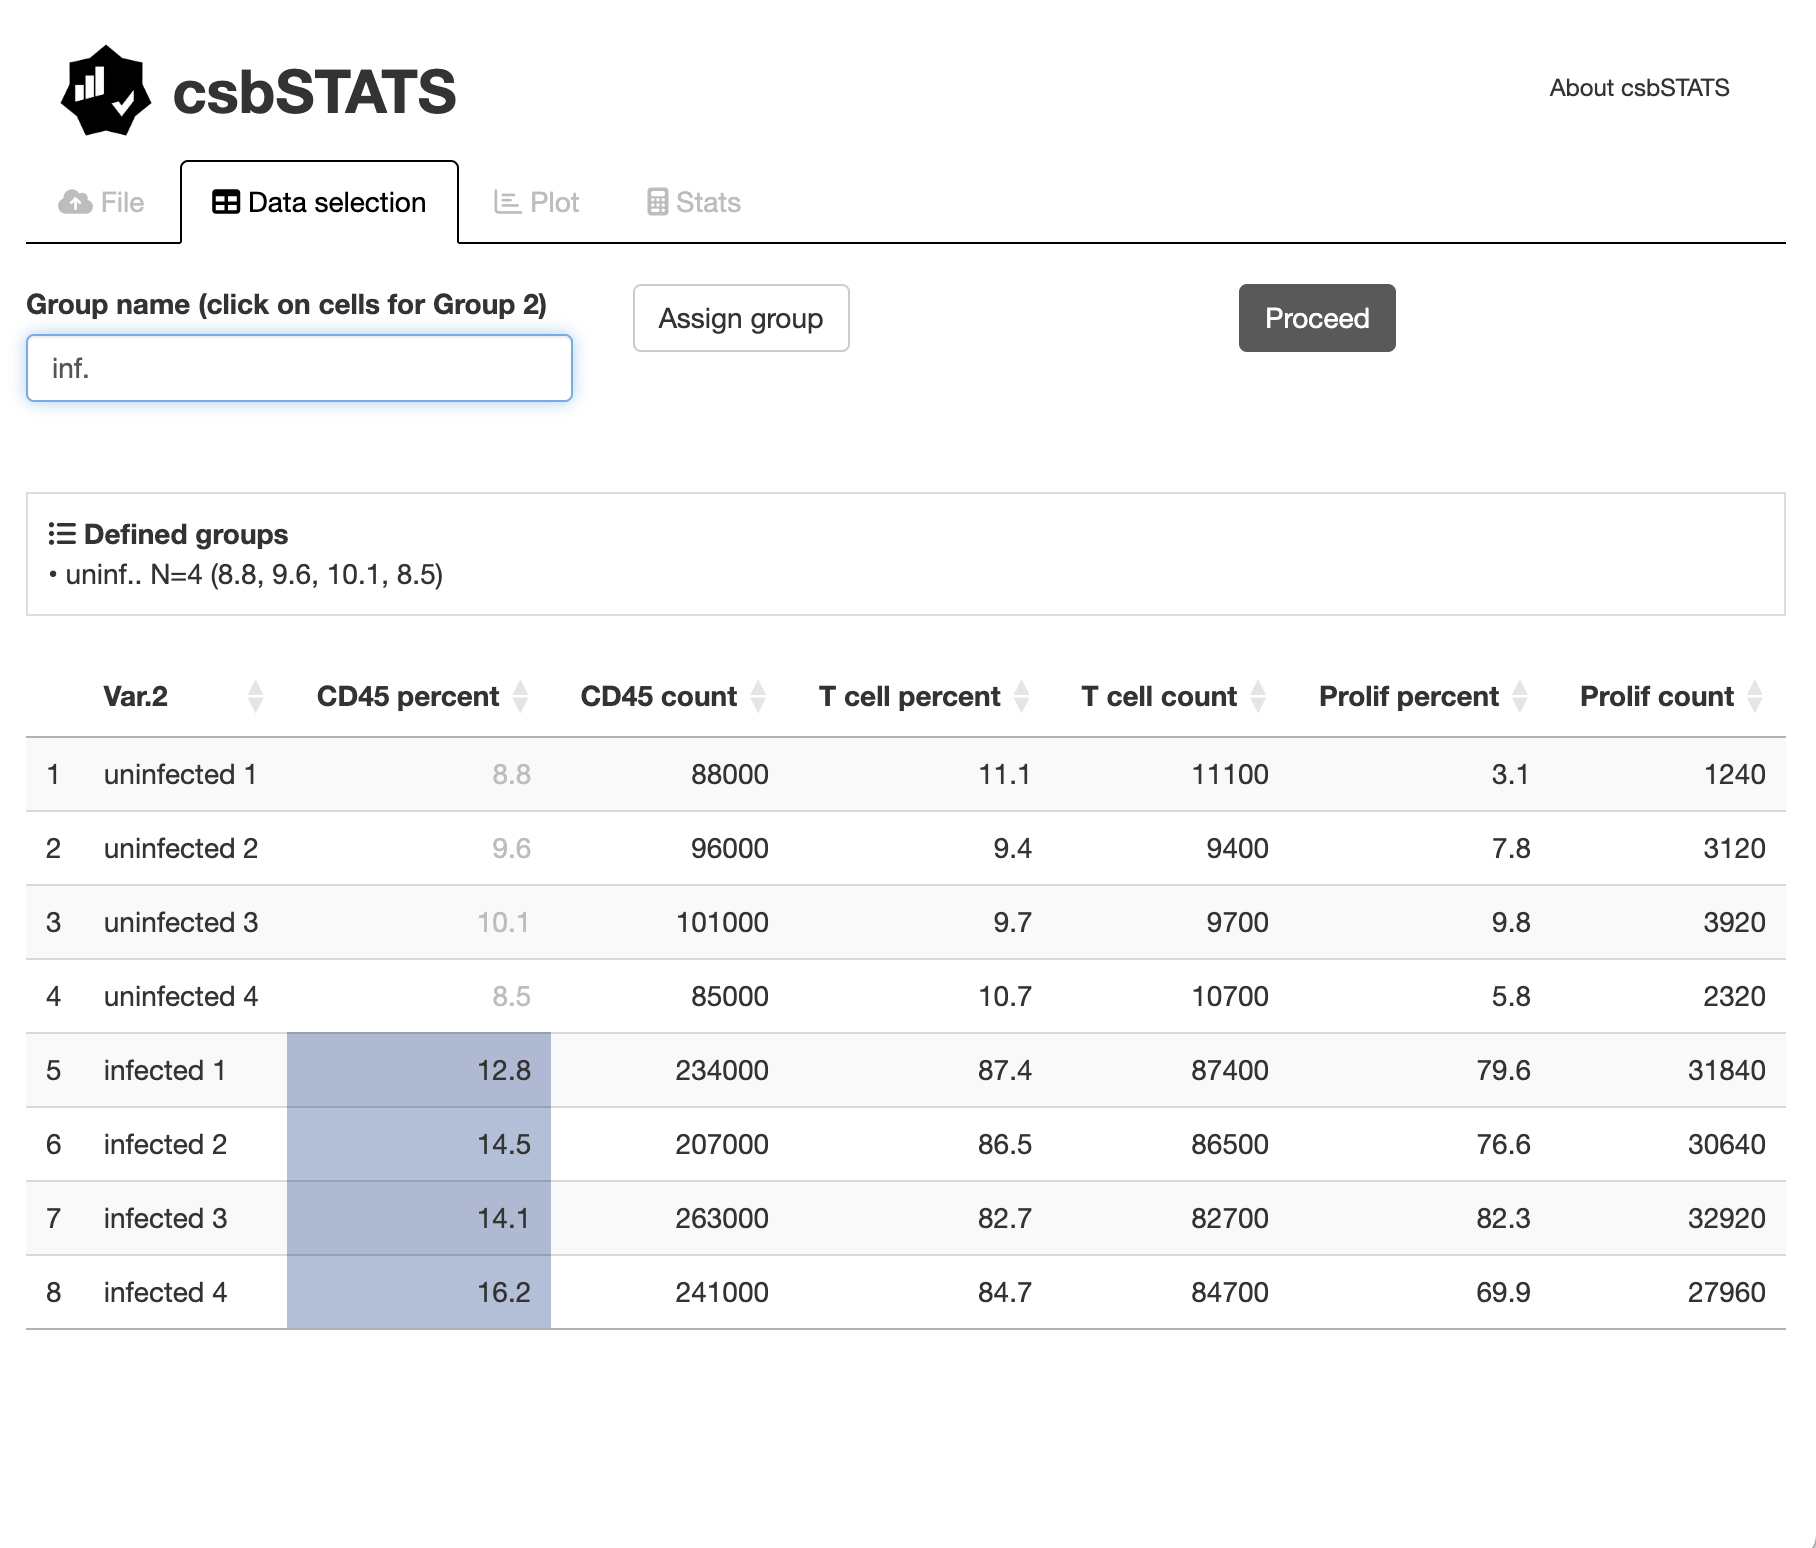
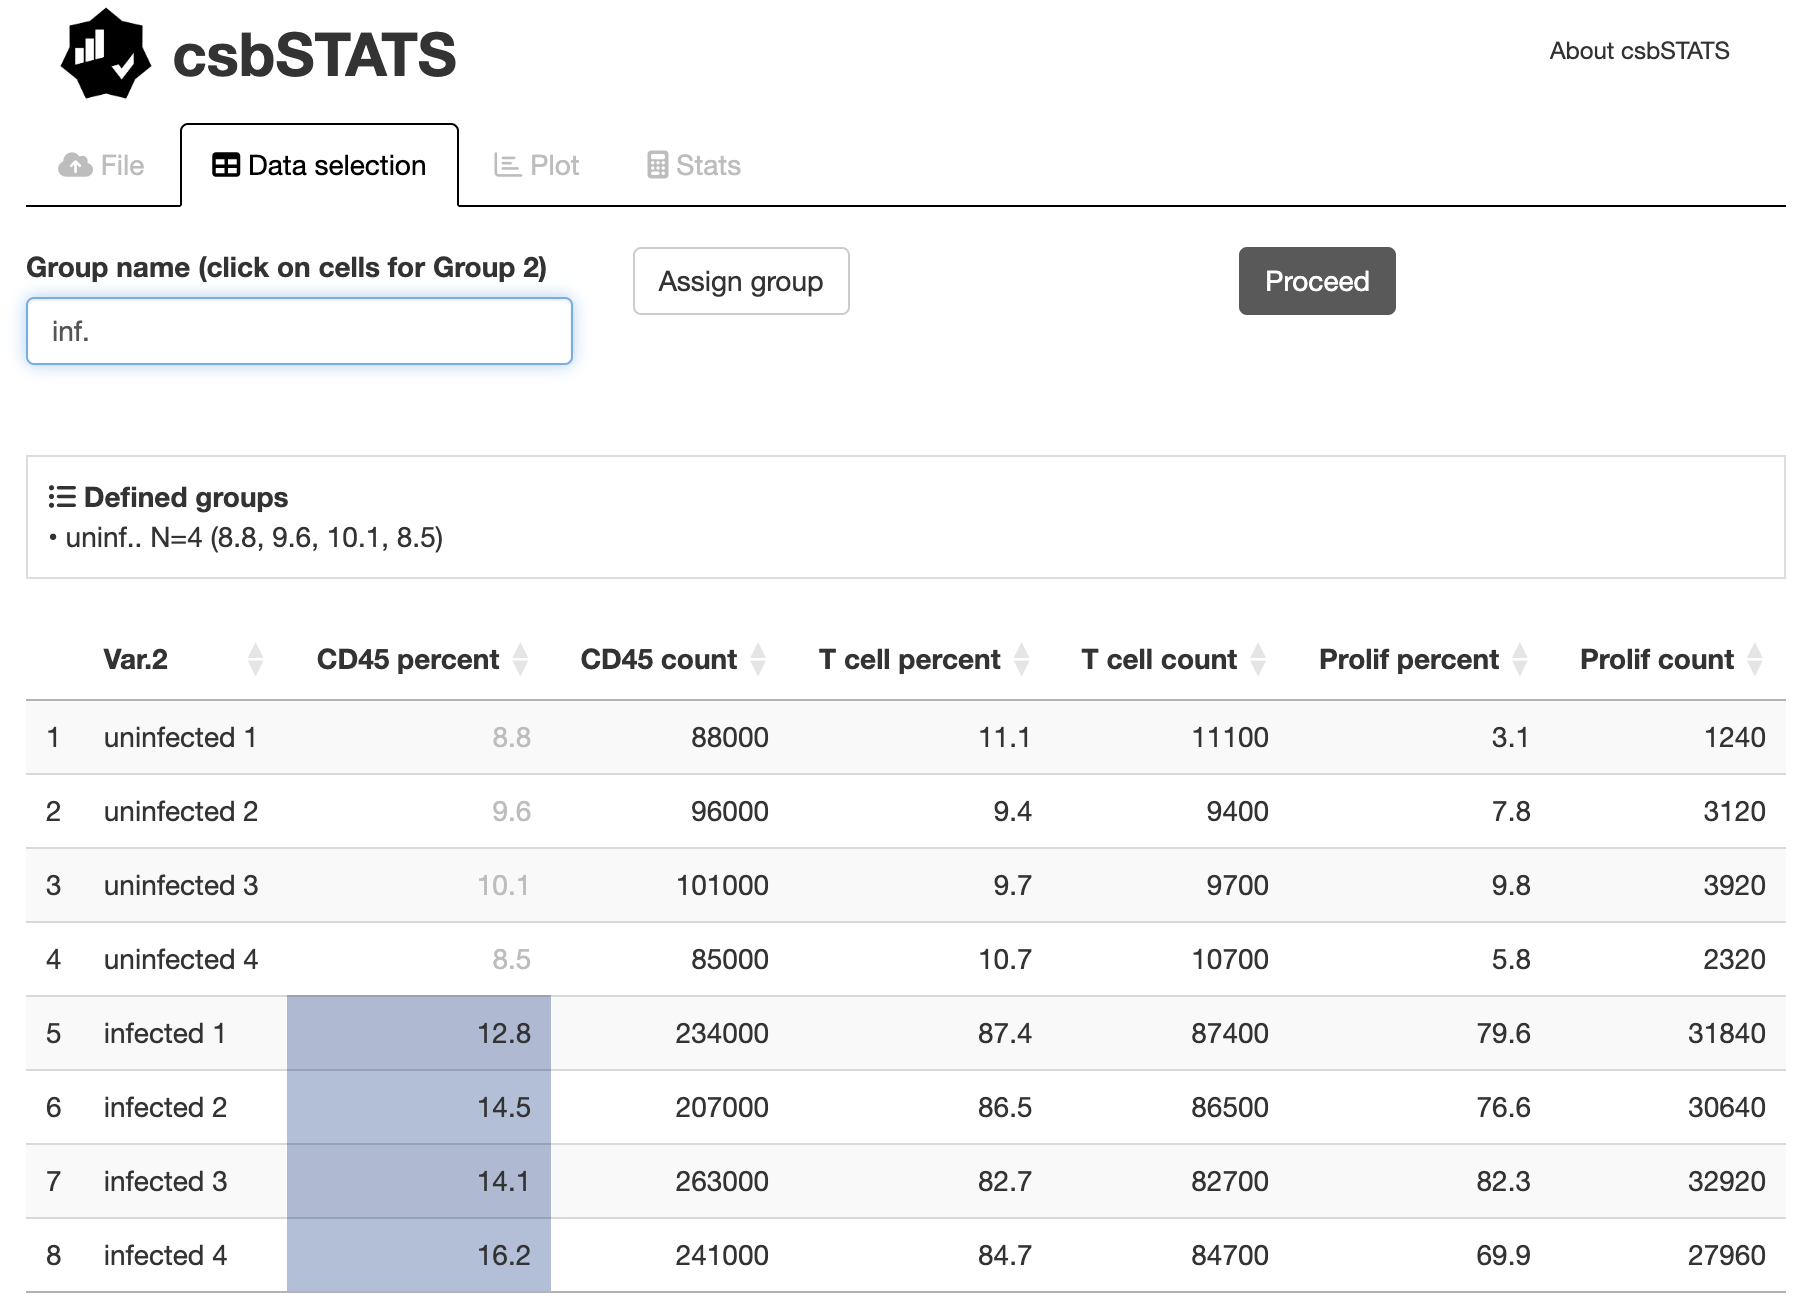
README update

diff --git a/README.md b/README.md
@@ -60,7 +60,7 @@ data loading to biostatistical inference.
     colors to each group using an interactive colour picker.
 
 <center>
-<img src="images/csbSTATS2.png" width="85%">
+<img src="images/csbSTATS2.png" width="100%">
 </center>
 
 -   Biostatistical analysis is performed in the *Stats* tab. Depending on
@@ -71,7 +71,7 @@ data loading to biostatistical inference.
     graphically on the plot and as a detailed textual summary.
 
 <center>
-<img src="images/csbSTATS3.png" width="85%">
+<img src="images/csbSTATS3.png" width="100%">
 </center>
 
 ## Credits and citation
